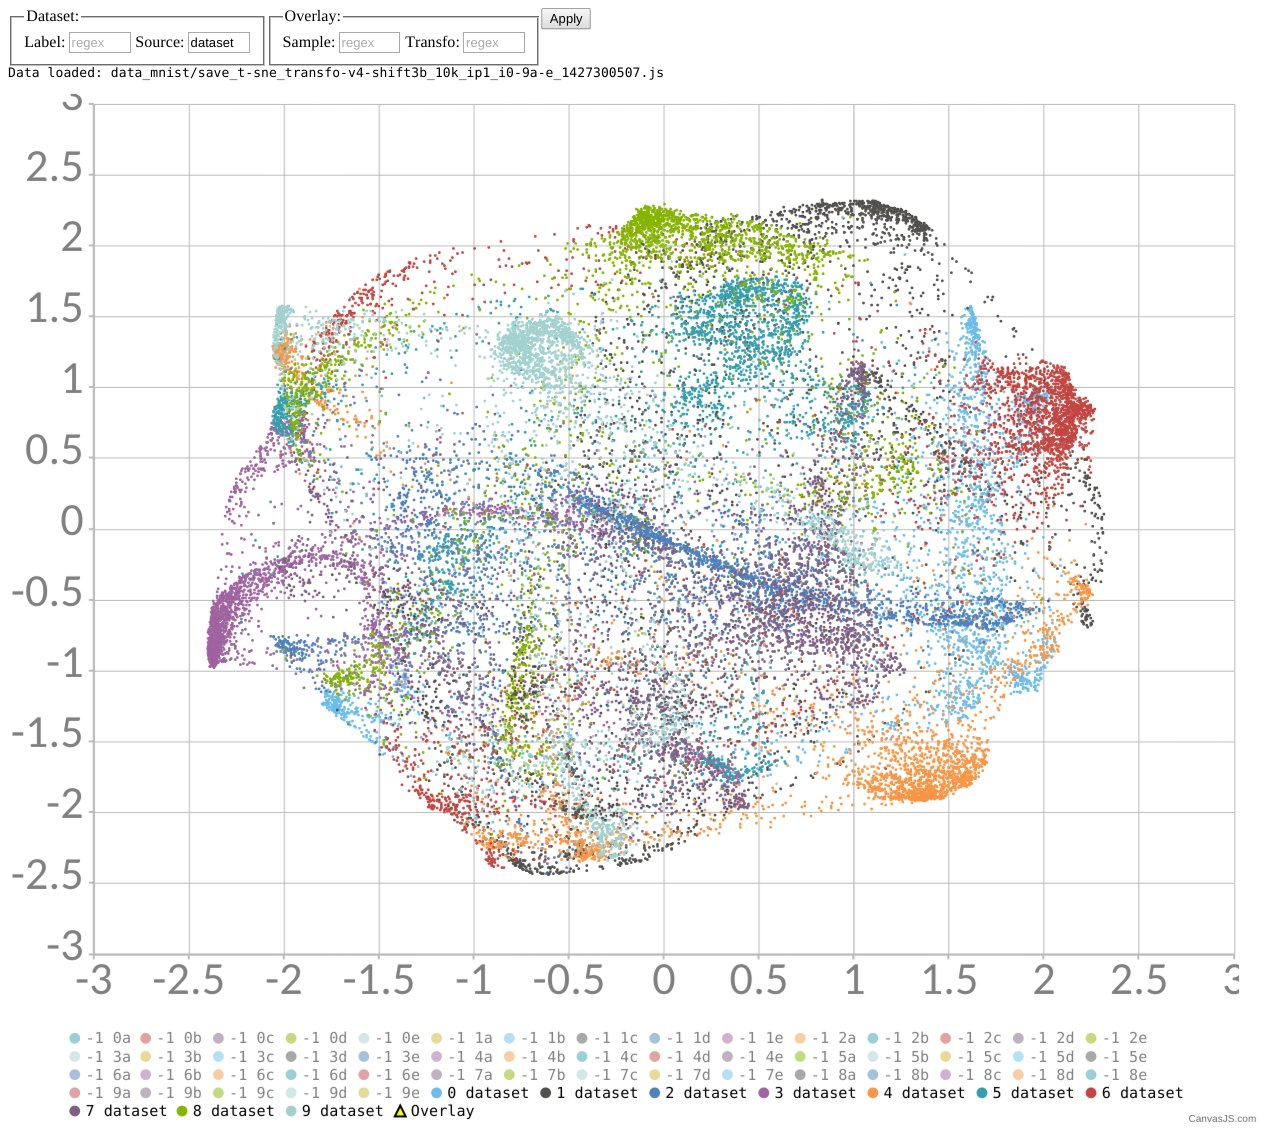
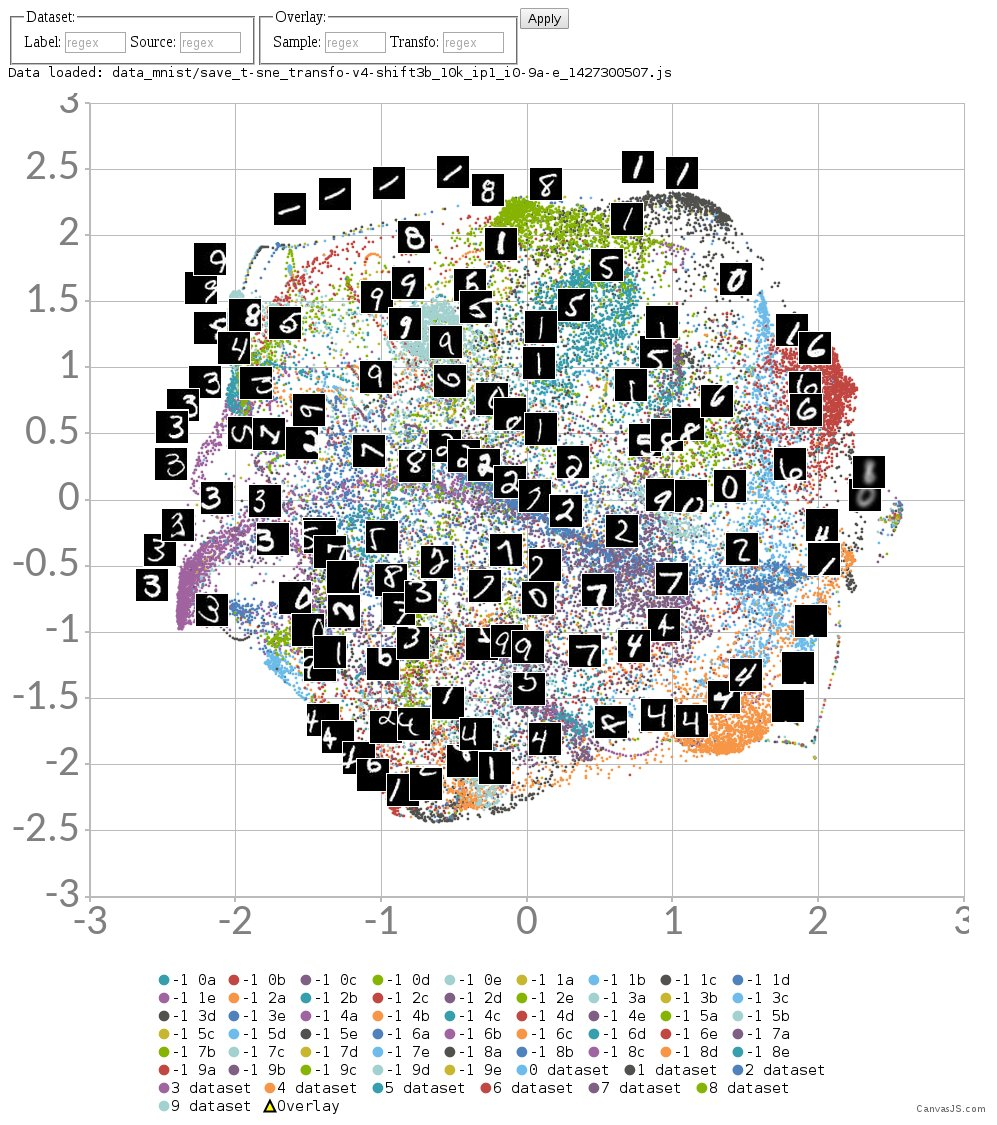
thesis

diff --git a/report/thesis.tex b/report/thesis.tex
@@ -64,7 +64,7 @@ First page (make guard, epfl logo, prof names, title, etc)
     % TODO: rewrite
     Current research in Computer Vision has shown that {\em Convolutional Neural Networks} (CNN) give state-of-the-art performance in many classification tasks and Computer Vision problems\cite{mnist_web}\cite{krizhevsky2012imagenet}\cite{rowley1998neural}\cite{prechelt1994proben1}.
     The embedding of CNN, which is the internal representation produced by the last layer, can indirectly learn topological and relational properties.
-    By using a suitable loss function, these models can learn invariance to a wide range of non-linear distortions such as rotation, viewpoint angle or lighting condition.
+    By using a suitable loss function, CNN models can learn invariance to a wide range of non-linear distortions such as rotation, viewpoint angle or lighting condition.
     In this work, we provide insights about CNN embeddings and propose a new loss function, derived from the contrastive loss, whose mapping under particular distortions is more predictable.
     Our contribution makes a step towards the derivation of features for varying distortions, given the features of a single feed-forward pass which is distortion-predictable, where usual methods require to feed-forward images under every distortions.
     % ^ TODO: careful about this last statement, too strong!
@@ -84,7 +84,26 @@ The amount of data is increasing every day and computers are still getting faste
 There is an enormous number of information sources which most produce datasets with a high number of dimensions: web databases, statistics, sound, images, videos.
 Many area of science need a way to make sense of huge data with many dimensions through either analysis or visualization which are sometimes combined.
 
-Dimensionality reduction is a process through which a compact representation is derived from a dataset that can represent the most important information with only a fraction of the initial dimensions.
+Computer Vision (CV) is a field addressing the problem of analyzing and understanding visual multimedias by means of automatic processing.
+Usual tasks are image classification, pattern recognition and many more.
+Many state-of-the-art solutions are combining the advance of Machine Learning to solve them statistically, to avoid designing algorithms by hand which would require a good knowledge of the data.
+For example {\em Convolutional Neural Networks} (CNN), which is a ``visual'' variant of {\em Neural Network}s (NN), are now widely used for Computer Vision.
+They are trained in a supervised way to perform a processing task which is generally to classify an image into a number of fixed categories.
+These networks acquire an internal representation of the input, the {\em features}, which are refined to the task during training and are usually more concise.
+Most practical applications will have to deal with some form of image distortions in their data: shearing, noise, camera viewpoint, lighting condition, to name a few.
+In the case of classification, distortions can require putting extra efforts to train a ``resistant'' model which still classifies correctly its input in the presence of such deformations.
+However, most of the time distortions are killed in the output but there are applications that would benefit from having a quantified and predictable signal of the distortions.
+
+% FIXME: to check:
+For example Biomedical Imaging needs to detect orientation-dependent structures and doing so with a NN would require to classify every possible rotations of an input image which is costly and inefficient.
+We present a step towards solving this problem efficiently by training a network that quantifies the distortions and exhibits more predictable features under distortions.
+When our model is given a distorted input image, it returns distortion-dependant features and the necessary information to quantify the distortions.
+With such model it becomes theoretically possible to compute the features of any distortion based on a single pass.
+The derived features can then be fed into very thin orientation-dependant networks to classify structures.
+
+%Therefore, NN can be seen as a dimensionality reduction method with an embedded classifier.
+An other example is in data visualization where dimensionality reduction doesn't necessarily give satisfying results.
+%Dimensionality reduction is a process through which a compact representation is derived from a dataset that can represent the most important information with only a fraction of the initial dimensions.
 Many methods were developed with various properties, flexibility and goals like PCA, LLE, Isomap and more recently SNE.
 However many of them lack in flexibility by representing only linearity and among the rest many still cannot preserve correctly hierarchical structures.
 Researches have shown that t-SNE, a variant of SNE, has greatly improved on this regard: it is capable of keeping global clusters and fine-grained coherence inside them.
@@ -228,7 +247,7 @@ Usual NN have a repetition of the following pattern: one layer computing inner-p
     \begin{center}
         \includegraphics{thesis_figures/NN.jpg}
     \end{center}
-    \caption{A Neural Network with two layers -- Source: mechanicalforex.com}
+    \caption{An example of a Neural Network with two layers -- Source: mechanicalforex.com}
     \label{fig:neural_network}
 \end{figure}
 % FIXME: figure, check usage rights
@@ -254,7 +273,7 @@ This process should be repeated until the error on the validation set has conver
     \begin{center}
         \includegraphics{thesis_figures/800px-ArtificialNeuronModel_english.jpg}
     \end{center}
-    \caption{An inner-product neuron with the connection to its activation neuron -- Source: Wikipedia}
+    \caption{A neuron computing an inner-product with a link to its activation neuron -- Source: Wikipedia}
     \label{fig:artificial_neurons}
 \end{figure}
 
@@ -276,7 +295,7 @@ Although CNNs have more constraints, it has been shown they generally outperform
     \begin{center}
         \includegraphics[width=\textwidth]{thesis_figures/conv-net2.jpg}
     \end{center}
-    \caption{Architecture of a CNN -- Source: code.flickr.net}
+    \caption{Architecture of a CNN where the computation flow is explicitly shown -- Source: code.flickr.net}
     \label{fig:convnet}
 \end{figure}
 % FIXME: figure, check usage rights
@@ -384,7 +403,7 @@ When the network is used, only a single instance $G_W$ is required to feed an in
     \begin{center}
         \includegraphics[width=0.5\textwidth]{thesis_figures/siamese_network.jpg}
     \end{center}
-    \caption{Schematic representation of a Siamese network -- Source: cs.nyu.edu}
+    \caption{Schematic representation of a Siamese network -- Source: \ref{bromley1993signature}}
     \label{fig:siamese_network}
 \end{figure}
 % FIXME: figure, check usage rights
@@ -403,7 +422,6 @@ where $Y \in \{0,1\}$ is the label: $1$ for similar pairs, $0$ otherwise; $D_W \
     \caption{A schematic representation of the contrastive loss using physical springs. See \cite{hadsell2006dimensionality} for the details. (a) Shows the points connected to similar points with {\em attract-only} springs. (b) The loss function and its gardient associated with similar pairs. (c) The point connected only with dissimilar points inside the circle of radius $m$ with {\em m-repulse-only} springs. (d) Shows the loss function and its gradient associated with dissimilar pairs. (e) Shows the situation where a point is pulled by other points in different directions, creating equilibrium -- Source \cite{hadsell2006dimensionality}}
     \label{fig:contrastive_spring}
 \end{figure}
-% FIXME: figure, check usage rights
 
 With this cost function, a label describes whether or not a pair should be close in the embedding.
 The definition of similarity is left open for the application at hand.
@@ -440,7 +458,7 @@ In this chapter, we will describe the general environment we used to produce our
 The different models we used are first introduced in details with their architecture.
 Followed by the explanation of our implementation using Caffe and Python.
 We quickly discuss how our datasets are generated based on MNIST and NORB.
-We present what we use to quantitatively measure our results that we use later for comparisons with prior art.
+Finally, we present what we use to quantitatively measure our results that we use later for comparisons with prior art.
 
 \section{Models and parameters}
 
@@ -456,10 +474,9 @@ This network architecture is comprised of a total of 7 layers with trainable par
     \begin{center}
         \includegraphics{thesis_figures/siamese_cnn.jpg}
     \end{center}
-    \caption{Architecture of the CNN (based on LeNet 5) -- Source: \cite{hadsell2006dimensionality}}
+    \caption{Architecture of the CNN used for our experiments on MNIST (based on LeNet 5). The network contains two convolutions layer which are connected by a subsampling layer and the final output is computed by a fully-connected layer. The computation flow is illustrated for a region of an image. -- Source: \cite{hadsell2006dimensionality}}
     \label{fig:siamese_cnn}
 \end{figure}
-% FIXME: figure, check usage rights
 
 The first part of this network is comprised of two pairs of convolution-pooling layers, where convolution kernels share their weights.
 As explained earlier, each convolution is applied to the entire image to create a single feature map.
@@ -527,7 +544,7 @@ However it is still a good subject of experiments to try and validate new ideas 
     \begin{center}
         \includegraphics{thesis_figures/mnist.jpg}
     \end{center}
-    \caption{A few samples taken in the training set of MNIST}
+    \caption{A few image samples taken from the MNIST training set to illustrate the dataset. Images were concatenated to save space.}
     \label{fig:mnist}
 \end{figure}
 
@@ -545,7 +562,7 @@ As we are doing comparisons with their methods, we will use the same toy to make
     \begin{center}
         \includegraphics{thesis_figures/norb.jpg}
     \end{center}
-    \caption{A few samples taken from the training set of NORB}
+    \caption{A few samples taken from the NORB training set to illustrate the dataset. Images were concatenated to save save.}
     \label{fig:norb}
 \end{figure}
 
@@ -564,7 +581,7 @@ An example of pairs for MNIST is illustrated in figure \ref{fig:mnist_pairs}.
     \begin{center}
         \includegraphics{thesis_figures/mnist_transfo_tsne.jpg}
     \end{center}
-    \caption{Some examples of distortions in our data-augmented dataset used in our t-SNE visualization experiment}
+    \caption{Illustration of some distortions applied to a random sample included in our data-augmented dataset used in the t-SNE visualization experiment. The following distortions are shown: translations, rotations, blurring and linear deformation}
     \label{fig:mnist_transfo_tsne}
 \end{figure}
 
@@ -572,7 +589,7 @@ An example of pairs for MNIST is illustrated in figure \ref{fig:mnist_pairs}.
     \begin{center}
         \includegraphics{thesis_figures/mnist_pairs.jpg}
     \end{center}
-    \caption{Examples of pairs in our Siamese training dataset}
+    \caption{Illustration of some pairs generated for a random sample with its distortions, neighbors and non-neighbors. The pairs are included in our training dataset for our Siamese network.}
     \label{fig:mnist_pairs}
 \end{figure}
 
@@ -678,21 +695,18 @@ Most of the distorted samples on figure \ref{fig:mnist_nda_tsne2} are part of th
 % FIXME: need description of how they drift wrt distortion?
 
 \begin{figure}[t]
-    \begin{center}
-        \includegraphics[width=\textwidth]{thesis_figures/mnist_nda_tsne.jpg}
-    \end{center}
-    \caption{Scatter plot of a t-SNE representation of the CNN embedding fed with the MNIST test set using our interactive tool (distorted samples are hidden)}
+    \centering
+    \includegraphics[width=\textwidth]{thesis_figures/mnist_nda_tsne.jpg}
+    \caption{Scatter plot of the t-SNE representation of the CNN embedding fed with the MNIST test set using our interactive tool. General view where the distorted samples are hidden. Some random samples are shown for each cluster. Each color represent a digit class.}
     \label{fig:mnist_nda_tsne}
 \end{figure}
 
 \begin{figure}[t]
-    \begin{center}
-        \includegraphics[width=\textwidth]{thesis_figures/mnist_nda_tsne2.jpg}
-    \end{center}
-    \caption{Scatter plot of a t-SNE representation of the CNN embedding fed with the MNIST test set using our interactive tool (distorted samples are shown)}
+    \centering
+    \includegraphics[width=\textwidth]{thesis_figures/mnist_nda_tsne2.jpg}
+    \caption{Scatter plot of the t-SNE representation of the CNN embedding fed with the MNIST test set using our interactive tool. Close view of the 0s cluster containing distorted samples. Most of the samples are continuous distortions of the sample sample (same color). A unique color is given to each digit class as before plus one unique color for each sample's distortions.}
     \label{fig:mnist_nda_tsne2}
-\end{figure}
-% FIXME: display some samples in figures?
+\end{figure}[t]
 
 In the next experiment, we apply the same process with a translation-invariant model.
 One simple way to achieve invariance is to train the model over a data-augmented training set to distinguish centred digits as well as translated digits.
@@ -712,7 +726,7 @@ This is actually a general problem with this plot: many clusters appear but thei
     \begin{center}
         \includegraphics[width=\textwidth]{thesis_figures/mnist_da_tsne.jpg}
     \end{center}
-    \caption{Scatter plot of t-SNE representation of the CNN embedding fed with the data-augmented MNIST test set using our interactive tool}
+    \caption{Scatter plot of t-SNE representation of the CNN embedding fed with the data-augmented MNIST test set using our interactive tool. A unique color is attributed to each digit class and one for each sample's distortions as before. The digits shown were manually selected to represent the local trend.}
     \label{fig:mnist_da_tsne}
 \end{figure}
 % FIXME: display some samples in figures?
@@ -779,6 +793,7 @@ Evolutions of this measure during training are plotted in figure \ref{fig:loss_t
 These two loss series are statistically indistinguishable validated by the null hypothesis with a t-test with $\alpha = 0.05$.
 Therefore we can conclude our model learns an equivalent representation in its 2D digit-projection to DrLIM with a slightly different formulation and it can expresses distortions without loosing information in its 3rd dimension at the same time.
 
+% FIXME: figure caption should be self-contained
 \begin{figure}[t]
     \centering
     \includegraphics{thesis_figures/mnist_cl_drlim.jpg}
@@ -792,6 +807,7 @@ Therefore we can conclude our model learns an equivalent representation in its 2
         \centering
         \includegraphics{thesis_figures/mnist_cl2d.jpg}
         \caption{Scatter plot of the embedding with two samples' distortions shown as triangles.}
+        % FIXME: add arrow with triangles display digits
     \end{subfigure}
     \begin{subfigure}[t]{0.7\textwidth}
         \centering
